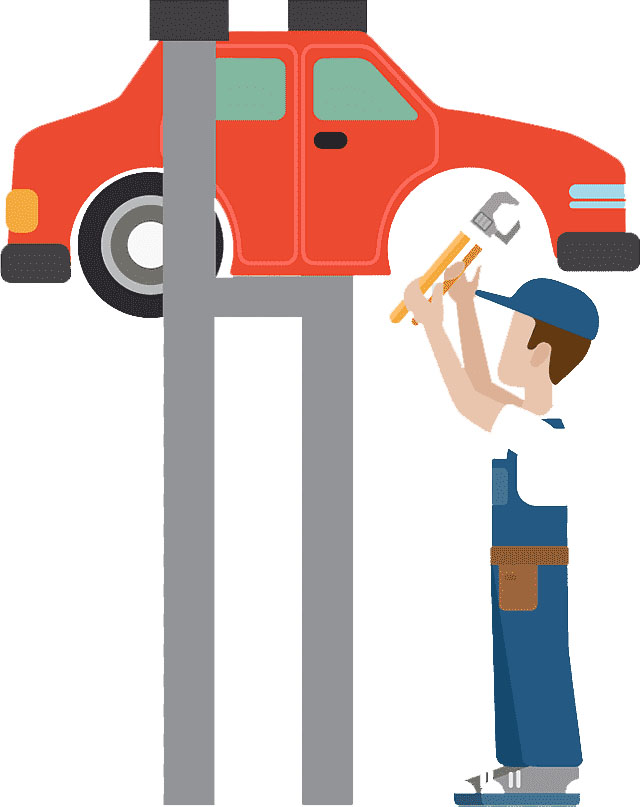
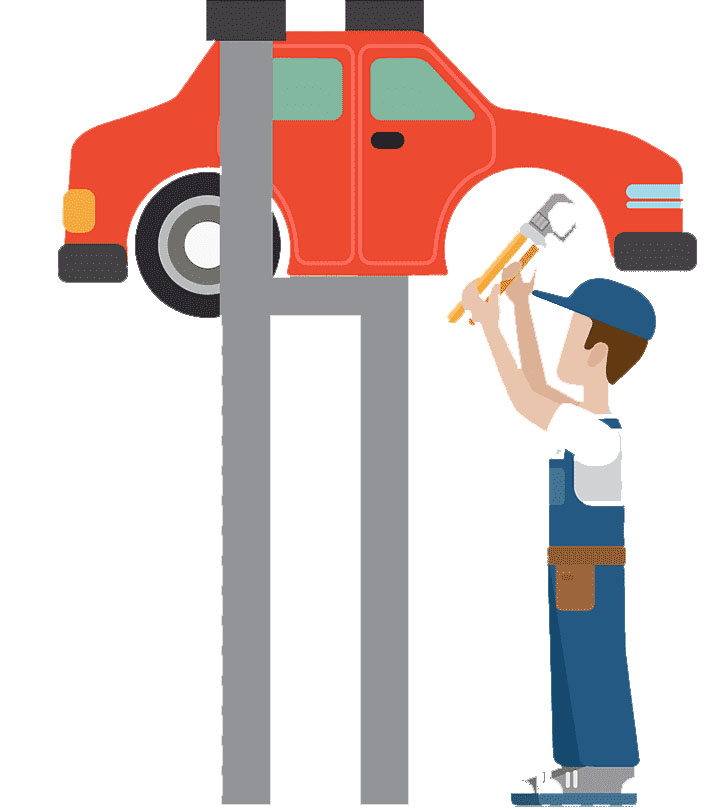
Cambios

diff --git a/ClienteNegocio/src/component/hooks/RegistroAuto.js b/ClienteNegocio/src/component/hooks/RegistroAuto.js
@@ -1,19 +1,67 @@
-import React from 'react'
+import React, {useState} from 'react'
 import { AiOutlineClose } from "react-icons/ai";
 import "../../style/registroAuto.css"
 
+
+
 function RegistroAuto({setearRegAuto}) {
+
+  const [vehiculo,setVehiculo] = useState({
+    patente: '',
+    marca: '',
+    modelo: '',
+    año: 0,
+    km: 0
+  })
+
+  const handleChange = e => {
+    setVehiculo({
+        ...vehiculo,
+        [e.target.name]: e.target.value
+        
+    })
+    console.log(vehiculo)
+  }
+
+  const handleSubmit = () => {
+    //validación de los datos
+    if (vehiculo.patente === '' || vehiculo.marca === '' || vehiculo.modelo === '' ||vehiculo.año === 0 || vehiculo.km === 0 ) {
+        alert('Todos los campos son obligatorios')
+        return
+    }
+
+    //consulta
+    const requestInit = {
+        method: 'POST',
+        headers: {'Content-Type': 'application/json'},
+        body: JSON.stringify(vehiculo)
+    }
+    fetch('http://localhost:3001/api/vehiculos/', requestInit)
+    .then(res => res.text())
+    .then(res => console.log(res))
+
+    //reiniciando state de libro
+    setVehiculo({
+      patente: '',
+      marca: '',
+      modelo: '',
+      año: 0,
+      km: 0
+    })
+
+}
+
   return (
-    <div className='contenedorRegistro'>
+    <form onSubmit={handleSubmit} className='contenedorRegistro'>
         <a className='botonCerrar' onClick={setearRegAuto} ><AiOutlineClose/></a>
         <h4>Registra tu automovil</h4>
-        <input className="entradaRegistro" name='Patente' type="text" placeholder='Patente'/>
-        <input className="entradaRegistro" name='Marca' type="text" placeholder='Marca'/>
-        <input className="entradaRegistro" name='Modelo' type="text" placeholder='Modelo'/> 
-        <input className="entradaRegistro" name='Año' type="text" placeholder='Año fabricación'/>
-        <input className="entradaRegistro" name='Km' type="text" placeholder='Km actuales'/>
-        <a className='enviarRegistro'>Enviar</a>
-    </div>
+        <input className="entradaRegistro"  onChange={handleChange} name='patente' type="text" placeholder='Patente'/>
+        <input className="entradaRegistro"  onChange={handleChange} name='marca' type="text" placeholder='Marca'/>
+        <input className="entradaRegistro"  onChange={handleChange} name='modelo' type="text" placeholder='Modelo'/> 
+        <input className="entradaRegistro"  onChange={handleChange} name='año' type="text" placeholder='Año fabricación'/>
+        <input className="entradaRegistro"  onChange={handleChange} name='km' type="text" placeholder='Km actuales'/>
+        <button className='enviarRegistro' type="submit" >Enviar</button>
+    </form>
   )
 }
 

diff --git a/ClienteNegocio/src/App.js b/ClienteNegocio/src/App.js
@@ -6,6 +6,7 @@ import Servicios from './component/layout/Servicios'
 import Contacto from './component/layout/Contacto'
 import Turno from './component/hooks/Turno'
 import RegistroAuto from './component/hooks/RegistroAuto'
+import InfoAuto from './component/hooks/InfoAuto'
 import { BrowserRouter as Router, Routes, Route} from "react-router-dom"; /* Routes=switch */
 import { useState } from 'react';
 
@@ -32,6 +33,8 @@ function App() {
           <Route path='/' exact element={<Inicio/>} />
           <Route path='/servicios'  element={<Servicios/>} />
           <Route path='/contacto'  element={<Contacto/>} />
+          <Route path='/informacion'  element={<InfoAuto/>} />
+
         </Routes>
         {compTurno}
         {compRegAuto}

diff --git a/ClienteNegocio/src/component/layout/Header.js b/ClienteNegocio/src/component/layout/Header.js
@@ -19,8 +19,7 @@ function Header({setearTurno,setearRegAuto}) {
                 <a className="boton-menu-vehiculo" ><AiFillCar/> Vehiculo</a>
                 <nav className='sub-menu-vehiculo'>
                   <a className="botones-sub-menu" onClick={setearRegAuto}>Agregar vehiculo </a>
-                  <a className="botones-sub-menu">Información Vehiculo </a>
-                  <a className="botones-sub-menu">Editar Vehiculo</a>
+                  <a className="botones-sub-menu" href="/informacion">Información Vehiculo </a>
                 </nav>
                 <a className="boton-menu-turno" > <AiFillEdit/>  Turno </a>
                 <nav className='sub-menu-turno'>

diff --git a/ClienteNegocio/src/style/servicio.css b/ClienteNegocio/src/style/servicio.css
@@ -4,13 +4,13 @@
 
 .n-service{
     margin-bottom: 7px;
-    color: rgb(61, 153, 190,0.95);
+    color: rgba(30, 86, 108, 0.95);
 }
 
 .number{
     display: inline-block;
     /* 02 */
-    background-image: linear-gradient(to top,rgb(58, 181, 176) 0%, rgb(61, 153, 190) 31%, hsl(270, 43%, 34%) 100%);
+    background-image: linear-gradient(to top,rgba(30, 86, 108, 0.95) 0%, rgb(4, 53, 74) 31%, rgb(4, 43, 60) 100%);
     line-height: 30px;
     text-align: center;
     border-radius: 50%;
@@ -19,4 +19,10 @@
     height: 30px;
     color: #fff;
     font-weight: 700;
+}
+
+.info-service{
+    font-size: 17px;
+    font-weight: 600;
+
 }

diff --git a/ClienteNegocio/src/component/layout/Servicios.js b/ClienteNegocio/src/component/layout/Servicios.js
@@ -25,7 +25,7 @@ function Servicios()
         <div className="contenedorTotal" >
             <h2 className="subtituloServicios">Nuestros servicios</h2>
             <div className="contenedor-servicios">
-                <img class="logo-servicios" src={require(`../../assets/img/hombre.jpg`)} alt='reparacion' />
+                <img class="logo-servicios" src={require(`../../assets/img/hombre.png`)} alt='reparacion' />
                 <div className="lista-servicio">
                     <Servicio info={infoServicio1}/>
 

diff --git a/ClienteNegocio/src/style/inicio.css b/ClienteNegocio/src/style/inicio.css
@@ -1,7 +1,7 @@
 .contenedor-Inicio {
     height: 78vh;
     background-blend-mode: multiply,multiply;
-    background-image: linear-gradient(to right, #5e6a73 0%, #292d2e 100%), url(../assets/img/fondo2.jpg);
+    background-image: linear-gradient(to right, #5e6a73 0%, #292d2e 100%), url(../assets/img/fondo3.jpg);
     background-repeat: no-repeat;
     background-position: center;
     background-size: cover; /* Cambie el tamaño de la imagen de fondo para cubrir todo el contenedor */

diff --git a/ClienteNegocio/src/App.css b/ClienteNegocio/src/App.css
@@ -2,6 +2,9 @@
   text-align: center;
 }
 body{
-  background-color: rgb(255, 255, 255);
+  
+    background-image: linear-gradient(to right, #ffffffc0 0%, #ffffffcf 100%), url(./assets/img/fondo3.jpg);
+    background-position: center;
+    background-size: cover; /* Cambie el tamaño de la imagen de fondo para cubrir todo el contenedor */
 }
 

diff --git a/ClienteNegocio/src/component/hooks/InfoAuto.js b/ClienteNegocio/src/component/hooks/InfoAuto.js
@@ -1,0 +1,14 @@
+import React from 'react'
+import "../../style/infoAuto.css"
+
+function InfoAuto() {
+  return (
+    <div className='contenedor-info'>
+        <h2> Ingrese el número de patente de su vehículo</h2>
+        <input className="entradaBusqueda"  name='patente' type="text" />
+
+    </div>
+  )
+}
+
+export default InfoAuto

diff --git a/ClienteNegocio/src/component/layout/Servicio.js b/ClienteNegocio/src/component/layout/Servicio.js
@@ -7,7 +7,7 @@ function Servicio({info}) {
        
         <div class="service">
            <h3 class="n-service"><span class="number">{info.num}</span>{info.titulo}</h3>
-           <p> {info.servicio}</p>
+           <p className='info-service'> {info.servicio}</p>
        </div>
                    
    

diff --git a/ClienteNegocio/src/style/servicios.css b/ClienteNegocio/src/style/servicios.css
@@ -4,7 +4,7 @@
     max-width: 1200px;
     overflow: hidden;    /* lo que se desborda se oculta */
     margin: auto;        /* centrar bloque */
-    padding: 10vh 0;
+    padding: 7vh 0;
 }
 
 .contenedor-servicios{
@@ -28,5 +28,5 @@
 }
 
 .logo-servicios{
-    width: 25%
+    width: 28%
 }

diff --git a/ClienteNegocio/src/style/contacto.css b/ClienteNegocio/src/style/contacto.css
@@ -12,6 +12,7 @@
     text-align: center;
     margin-bottom: 50px;
     font-size: 20px;
+    font-weight: 600;
 }
 
 .subtituloContacto{

diff --git a/ClienteNegocio/src/style/registroAuto.css b/ClienteNegocio/src/style/registroAuto.css
@@ -37,7 +37,6 @@
     font-weight: 540;
     font-size: 3.5vh;
     cursor: pointer;   
-    color: #ffffff;
 
 
     
